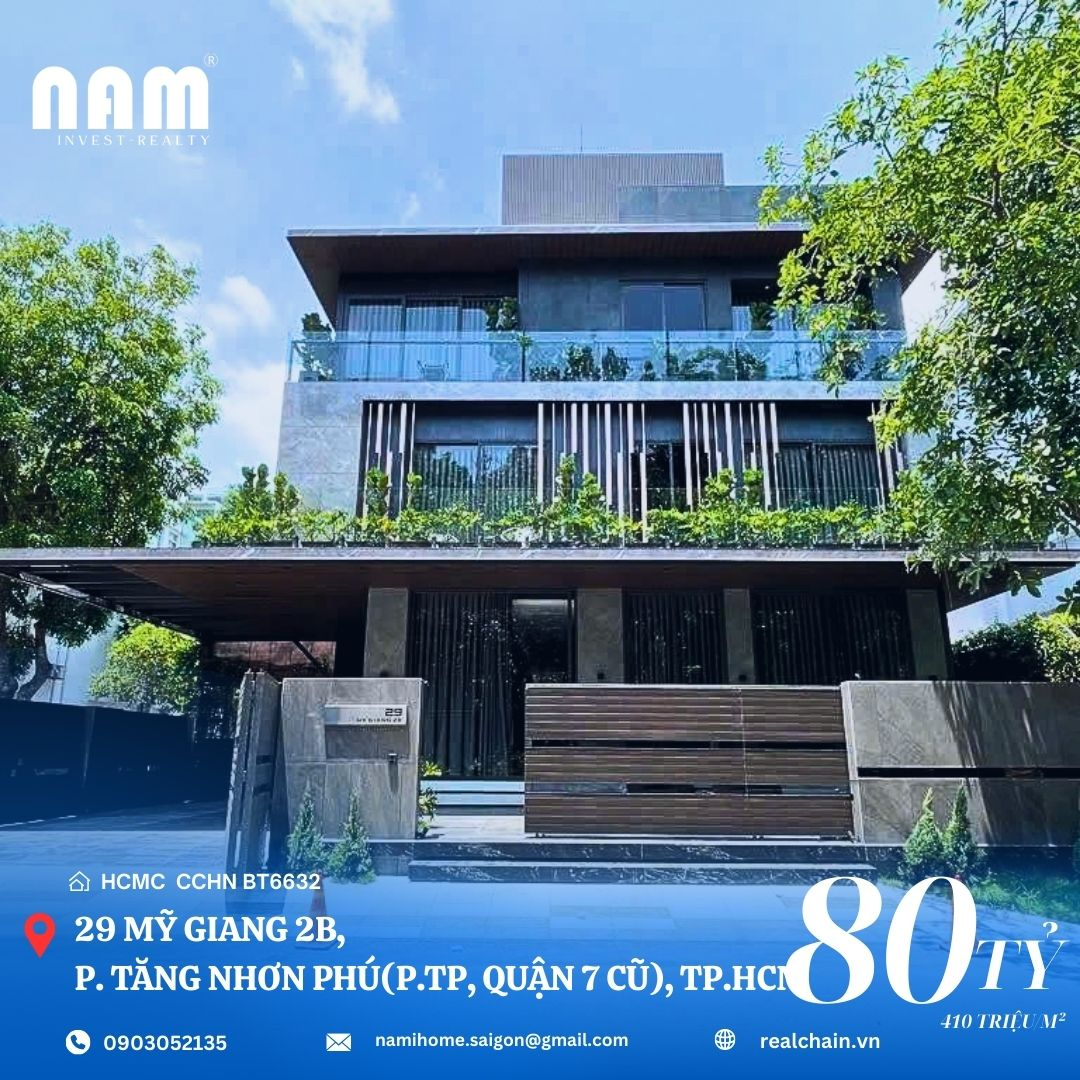
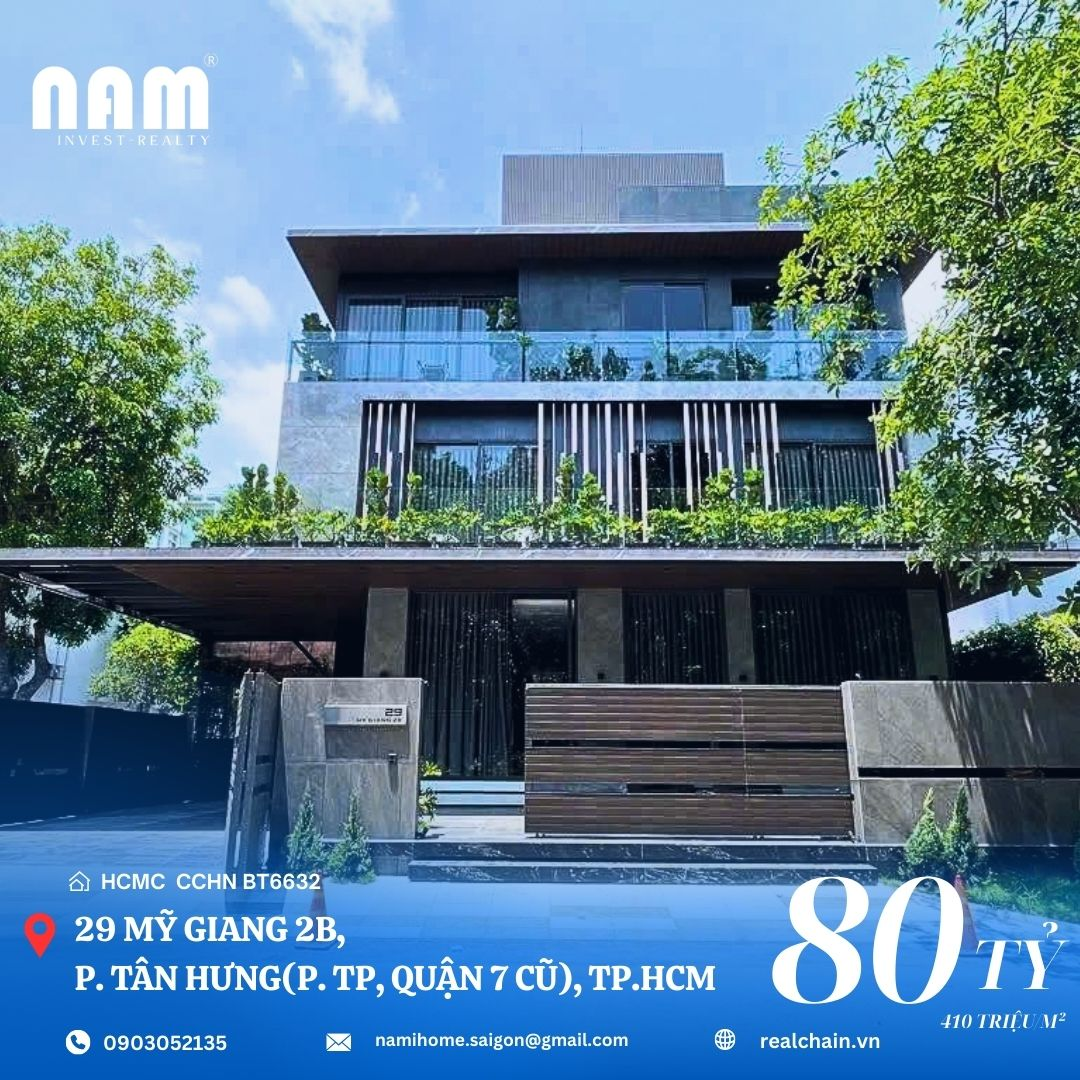
50

diff --git a/src/redux/dataSlice.js b/src/redux/dataSlice.js
@@ -185,7 +185,7 @@ const initialState = {
       viTri: "Giữa đường Công Trường Quốc Tế với Trần Cao Vân",
       allPhoto: ["10.1.jpg", "10.2.jpg", "10.3.jpg", "10.4.jpg"],
       categories: ["Nhà phố", "Building"],
-      chuNha: "09097626 - Nam",
+      chuNha: "0909762672 - Nam",
     },
     {
       ma: "11",
@@ -853,18 +853,52 @@ const initialState = {
     {
       ma: "50",
       proName: "NHÀ MẶT TIỀN MỸ GIANG",
-      title: "29 Mỹ Giang 2B,",
-      address: "29 Mỹ Giang 2B, Phường Tăng Nhơn Phú (P.Tân Phú, Quận 7 cũ), TP.HCM",
+      title: "29 Mỹ Giang 2B",
+      address: "29 Mỹ Giang 2B, Phường Tân Hưng (P.Tân Phong, Quận 7 cũ), TP.HCM",
       dienTich:"Ngang 11m x Dài 18m, Công nhận 195m², DTS 450m²",
       ketCau: "3 tầng",
       giaBan: "80 tỷ",
       hopDong: " Triệu/tháng",
       huong: "Tây Nam",
       phapLy: "Cá nhân",
-      viTri: "Giữa đường Mỹ Giang 2B với Kênh Đào Phú Mỹ Hưng ",
+      viTri: "Giữa đường Mỹ Giang 2B với Đường 0 ",
       allPhoto: ["50.1.jpg", "50.2.jpg", "50.3.jpg", "50.4.jpg"],
       categories: ["Nhà phố", "Building"],
       chuNha: " 0909762672- Nam",
+      map: "",
+    },
+    {
+      ma: "51",
+      proName: "NHÀ MẶT TIỀN NGUYỄN VĂN HƯỞNG",
+      title: "189A1 Nguyễn Văn Hưởng",
+      address: "189A1 Nguyễn Văn Hưởng, Phường An Khánh (P.Thảo Điền, Quận 2 cũ), TP.HCM",
+      dienTich:"Ngang 15m x Dài 70m, Công nhận 669m² (thực tế 1044m²), DTS 1200m²",
+      ketCau: "3 tầng",
+      giaBan: "320 tỷ",
+      hopDong: " Triệu/tháng",
+      huong: "Tây Bắc",
+      phapLy: "Cá nhân",
+      viTri: "Giữa đường Nguyễn Văn Hưởng với Đường 188 Nguyễn Văn Hưởng",
+      allPhoto: ["51.1.jpg", "51.2.jpg", "51.3.jpg", "51.4.jpg"],
+      categories: ["Nhà phố", "Building"],
+      chuNha: " 0909762672- Nam",
+      map: "",
+    },
+     {
+      ma: "52",
+      proName: "NHÀ MẶT TIỀN NGUYỄN THỊ MINH KHAI",
+      title: "376 Nguyễn Thị Minh Kha",
+      address: "376 Nguyễn Thị Minh Kha, Phường Bàn Cờ (P.5, Quận 3 cũ), TP.HCM",
+      dienTich:"Ngang 6m x Dài 9m, nở hậu 7m. Công nhận 49m²,  DTS 160m²",
+      ketCau: "5 tầng",
+      giaBan: "35 tỷ",
+      hopDong: "100 Triệu/tháng",
+      huong: "Đông Bắc",
+      phapLy: "Cá nhân",
+      viTri: "Giữa đường Nguyễn Thị Minh Khai với Đường Cách Mạng Tháng Tám",
+      allPhoto: ["52.1.jpg", "52.2.jpg", "52.3.jpg", "52.4.jpg"],
+      categories: ["Nhà phố", "Building"],
+      chuNha: " 090 3703483- Anh Khiêm - 090 3881404 Chị Lan",
       map: "",
     },
 
